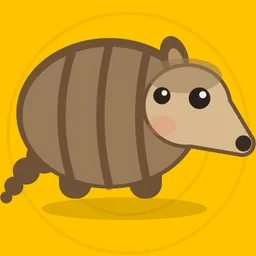
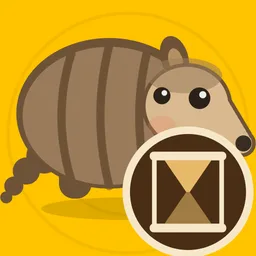
Matibu esta en produccion: boton a Play e iconos nuevos
La ficha ya responde 200 en los tres idiomas, asi que el boton "Proximamente"
pasa a "Descargar en Google Play" en su pagina, y la tarjeta de la portada deja
de mandar a /apps/testing/ -que a quien no es tester le dice que no puede
entrar- y apunta a la ficha publica.

Y los iconos del sitio estaban desactualizados: los .webp eran del 7 y el 9 de
agosto y los iconos con el simbolo de cada materia son del 12. Matibu se veia
sin sus cuatro operaciones justo el dia que se publica. Se regeneran los siete
desde el assets/icon.png de cada app -el que viaja en el AAB- para que el sitio
no pueda mostrar uno distinto del que hay en el telefono.

La imagen para compartir de Matibu tambien llevaba el icono viejo, y es la cara
del enlace cuando se pega en un grupo de WhatsApp: se recompuso el icono nuevo
en la misma caja (300x300 en 800,165, esquinas de radio 60, medidas sobre la
propia imagen). La de la portada no se toca: usa la marca del estudio.

Changed region(s): [[0.4688, 0.4688, 1.0, 1.0]]

diff --git a/matibu/index.html b/matibu/index.html
@@ -160,17 +160,14 @@ footer a:hover{color:#fff}
 
   <div class="acciones">
     <!-- ═══ EL BOTON ═══
-         Hoy dice "Próximamente" porque la ficha de Play todavía no es pública
-         (en prueba cerrada devuelve 404). Cuando Matibu esté EN PRODUCCIÓN,
-         reemplazar el <span> de abajo por:
-
-         <a class="boton" href="https://play.google.com/store/apps/details?id=cl.matibu.matematicas">
-           Descargar en Google Play</a>
-
-         Comprobar ANTES que la ficha responda 200:
+         Encendido el 2026-08-13, el día que Matibu pasó a producción. Antes de
+         encenderlo se comprobó que la ficha responde 200 en los tres idiomas:
          curl -s -o /dev/null -w "%{http_code}" "https://play.google.com/store/apps/details?id=cl.matibu.matematicas"
+         Mientras estuvo en prueba cerrada devolvía 404, y un botón que lleva a
+         un 404 cuesta más que no tener botón.
     ═══ -->
-    <span class="boton espera">Próximamente en Google Play</span>
+    <a class="boton" href="https://play.google.com/store/apps/details?id=cl.matibu.matematicas">
+      Descargar en Google Play</a>
     <p class="firma">Una app de GusMar Studios</p>
   </div>
 </header>
@@ -242,7 +239,8 @@ footer a:hover{color:#fff}
       y al que le cuesta no lo deja atrás.
     </p>
     <div class="acciones">
-      <span class="boton espera">Próximamente en Google Play</span>
+      <a class="boton" href="https://play.google.com/store/apps/details?id=cl.matibu.matematicas">
+        Descargar en Google Play</a>
     </div>
   </section>
 

diff --git a/index.html b/index.html
@@ -669,7 +669,7 @@ a.estado:hover { color: #fff; }
             <div><h3><a href="matibu/">Matibu</a></h3><span class="edad">6 a 12 años</span></div>
           </div>
           <p>Matemáticas desde primero básico: tablas, operaciones y fracciones.</p>
-          <a class="estado" href="https://play.google.com/apps/testing/cl.matibu.matematicas" rel="noopener"><span class="punto" aria-hidden="true"></span>Prueba cerrada · solo testers</a>
+          <a class="estado" href="https://play.google.com/store/apps/details?id=cl.matibu.matematicas" rel="noopener"><span class="punto" aria-hidden="true"></span>Ver en Google Play</a>
         </li>
 
         <li class="app" data-rise style="--tinte:#18A9A5;--tinte-borde:rgba(16,125,122,.6);--tinte-fondo:rgba(16,125,122,.12)">
